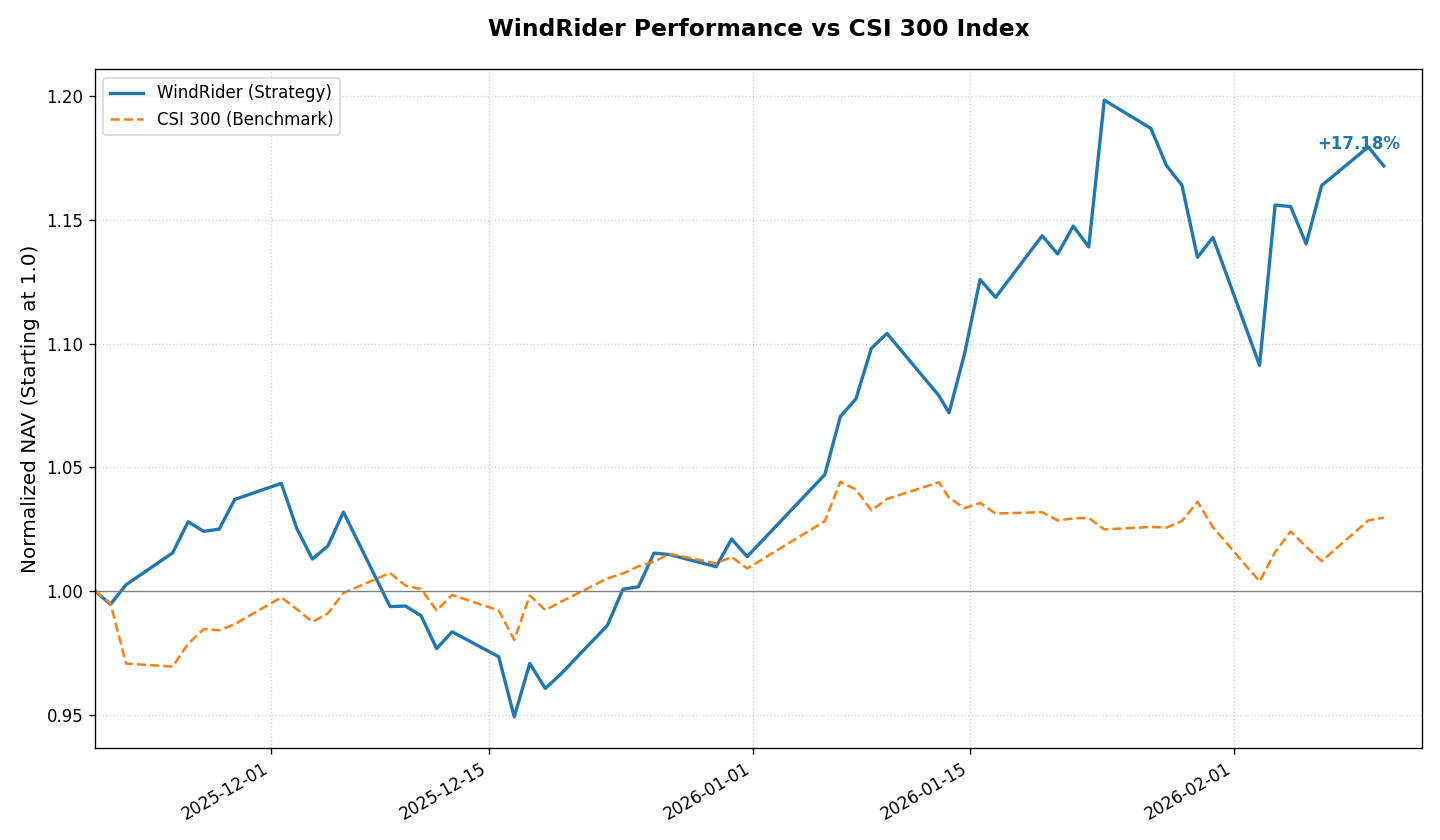
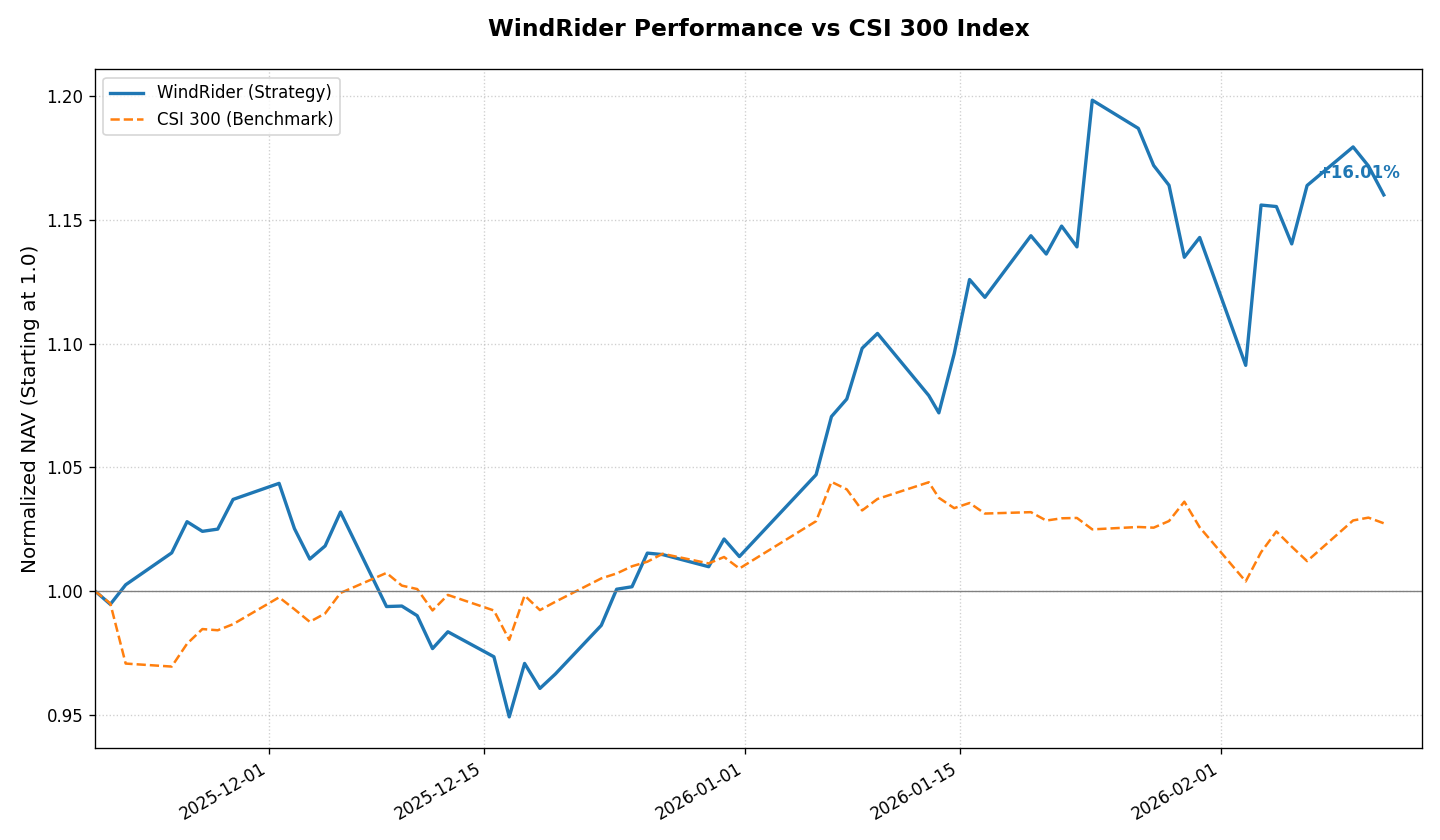
Updated Hugo site content

diff --git a/content/investment/position.md b/content/investment/position.md
@@ -1,8 +1,8 @@
 +++
 title = "持仓 Position"
 summary = "主动管理型股票组合。对标沪深300指数，采用基本面选股策略。"
-date = 2026-02-10T15:10:04+08:00
-lastmod = 2026-02-10T15:10:04+08:00
+date = 2026-02-11T15:10:04+08:00
+lastmod = 2026-02-11T15:10:04+08:00
 draft = false
 description = "WindRider Stock Portfolio"
 +++
@@ -12,30 +12,30 @@ description = "WindRider Stock Portfolio"
 
 ### 风舵股票组合 &nbsp;&nbsp;<span style="color: #E63946; font-weight: bold;">/</span><span style="color: #F1A73E; font-weight: bold;">/</span><span style="color: #000091; font-weight: bold;">/</span>&nbsp;&nbsp; 每日持仓
 WindRider Equity Portfolio <br>
-净值简报 <small>(截至: 2026-02-10)</small>
+净值简报 <small>(截至: 2026-02-11)</small>
 
 |  |  |
 | :--- | :--- |
 | **指数代码：** | WDR.EQ |
 | **成立日期：** | 2025-11-19 |
-| **最新净值：** | 1.1718 |
-| **今日涨跌：** | -0.65% |
+| **最新净值：** | 1.1601 |
+| **今日涨跌：** | -1.00% |
 
 ===========================
 
 | 核心表现 | |
 | :--- | :--- |
-| **累计收益：** | +17.18% |
-| **年化收益：** | +100.81% |
+| **累计收益：** | +16.01% |
+| **年化收益：** | +90.65% |
 | **最大回撤：** | -9.05% |
-| **基准点位：** | 4724.30 (CSI300) |
-| **策略状态：** | 已运行 84 天 |
+| **基准点位：** | 4713.82 (CSI300) |
+| **策略状态：** | 已运行 85 天 |
 
 ### 持仓明细
 | 股票名称 | 成本价 | 现价 | 盈亏 | 占比 |
 | :--- | :--- | :--- | :--- | :--- | :--- |
-| 先导智能 <small>300450</small> | 50.36 | 57.53 | <span style="color:#E63946">+14.24%</span> | 48.49% |
-| 新 和 成 <small>002001</small> | 24.84 | 29.95 | <span style="color:#E63946">+20.58%</span> | 50.49% |
+| 先导智能 <small>300450</small> | 50.36 | 55.35 | <span style="color:#E63946">+9.91%</span> | 47.12% |
+| 新 和 成 <small>002001</small> | 24.84 | 30.45 | <span style="color:#E63946">+22.60%</span> | 51.85% |
 
 <br>
 
